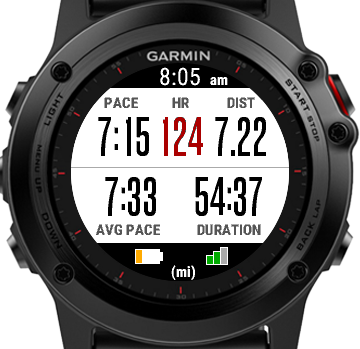
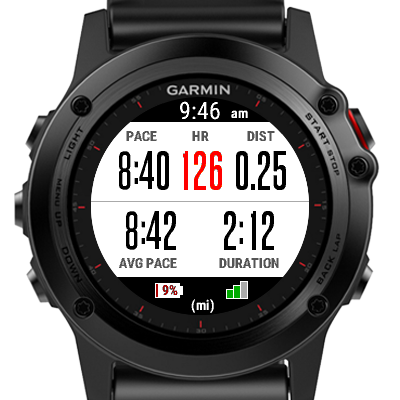
Readme and screenshot changes (with dark background) including german versions.
* add changelog for 1.2 to README.md
* add README_deu.md for german version
* add new screenshots

diff --git a/README.md b/README.md
@@ -1,26 +1,33 @@
 # RunnersField
 
-![RunnersField Screenshot](/doc/RunnersField1.png)
+![RunnersField Screenshot Bright](/doc/RunnersField1.png) ![RunnersField Screenshot Dark](/doc/RunnersField3.png)
 
 This is free a Data Field for the Fenix 3 that shows multiple values on a single field. 
 RunnersField is open source and its code resides at github: https://github.com/kopa/RunnersField
 
 Release versions are published in the [Garmin App Store](https://apps.garmin.com/en-US/apps/8428701b-e621-4156-9d4e-37d92b30151f)
 
+===============================================
+
 ## Feedback 
 https://forums.garmin.com/showthread.php?327411-DataFields-RunnersField
 
+===============================================
+
 ## Features
 * TIME: 12/24h mode based on system settings.
-* PACE: pace in km/min or mi/min based on system settings (as average of the last 10 values)
-* AVG PACE: average pace over the whole activity
-* DISTANCE: elapsed distance in km or miles based on system settings
+* PACE: pace in km/min or mi/min based on system settings (as average of the last 10 values).
+* AVG PACE: average pace over the whole activity.
+* DISTANCE: elapsed distance in km or miles based on system settings.
 * DURATION: duration of the activity in [hh:]mm:ss
-* GPS: green bars for poor/acceptable/good signal, gray if no signal
+* GPS: green/blue bars for poor/acceptable/good signal, gray if no signal.
 * battery: visualization of battery percentage as indicator bar. 
-  If battery value is lower than 30 the indicator bar gets orange. If value is lower than 10% the exact value will be shown and the indicator bar turns red 
+  If battery value is lower than 30 the indicator bar gets orange. If value is lower than 10% the exact value will be shown and the indicator bar turns red.
 * unit system in use: "(km)" will be shown when metric system is set in the settings, "(mi)" if statute (imperial) units are configured.
+* use bright or dark color scheme based on the background color setting of the app (Settings/Apps/Run/Background Color).
+  needs at least a firmware with SDK 1.2 compatibility (otherwise bright scheme is always used).
 
+===============================================
 
 ## Install Instructions
 A Data Field needs to be set up within the settings for a given activity (like Run)
@@ -38,9 +45,17 @@ A Data Field needs to be set up within the settings for a given activity (like R
 * Select RunnersField
 * Long Press Down to go back to watch face
 
+===============================================
+
 ## Usage
 Start Run activity.
-Hopefully you see the RunnersField datafield.
+Hopefully you see the RunnersField datafield and can read the values.
+
+===============================================
+
+## Changelog 1.2
+* Use bright/dark color scheme based on app background color settings 
+* Add german language file
 
 ## Changelog 1.1.1
 * Further improved memory footprint
